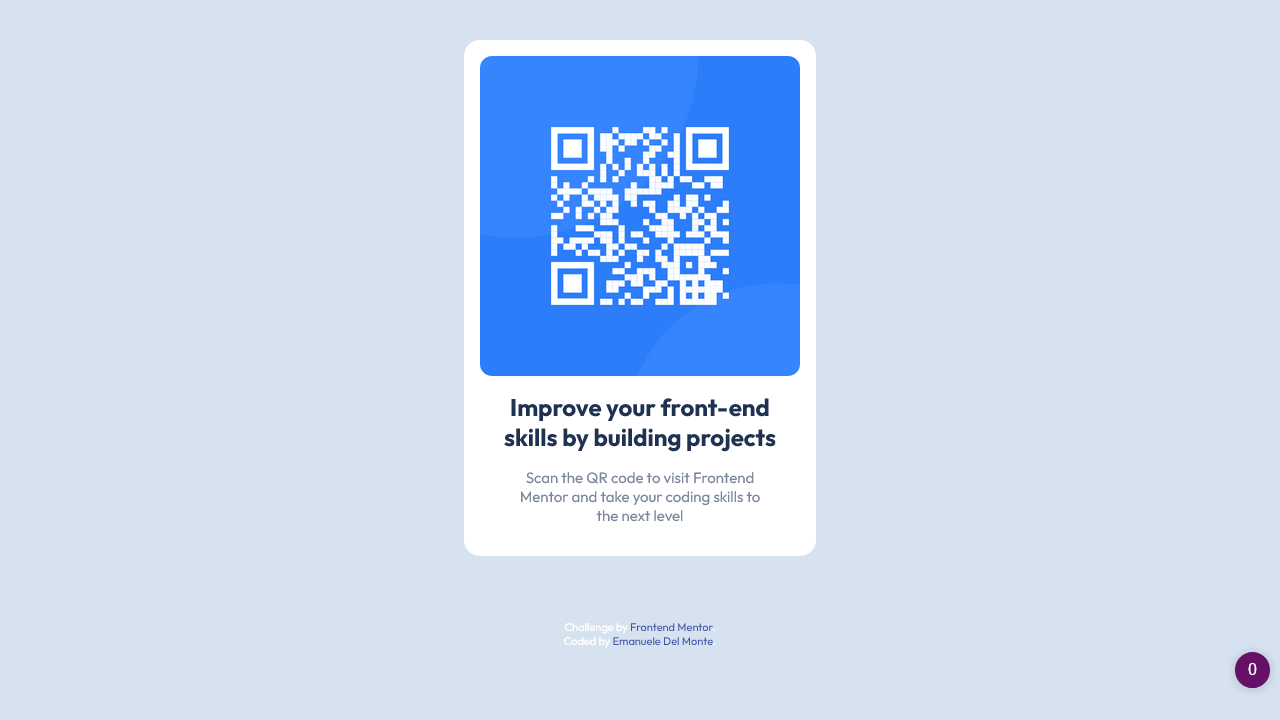
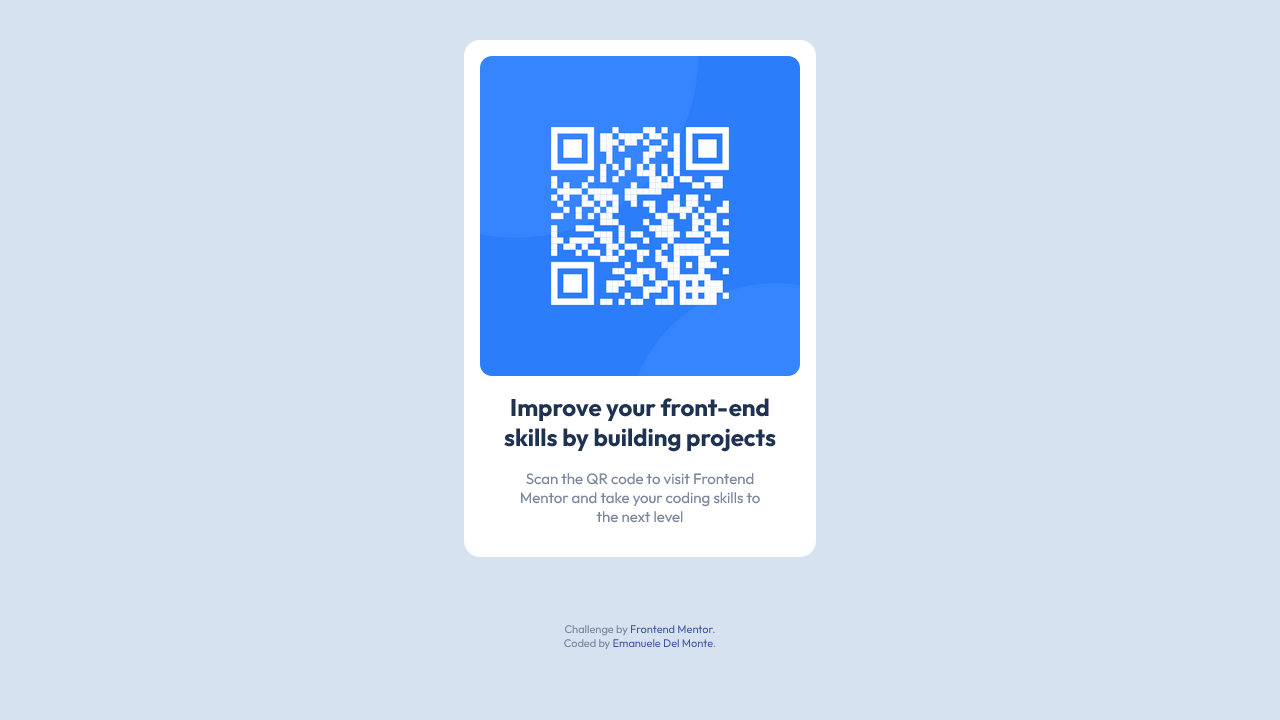
minor fixes

Changed region(s): [[0.4062, 0.6417, 0.5938, 0.7333], [0.4375, 0.8556, 0.5625, 0.9167], [0.9375, 0.8861, 1.0, 0.9778]]

diff --git a/styles/index.css b/styles/index.css
@@ -62,6 +62,10 @@ footer {
   padding: 2em;
 }
 
+span {
+  color: var(--clr-grayish-blue);
+}
+
 /* ---------------------- */
 /* Utility classes        */
 /* ---------------------- */
